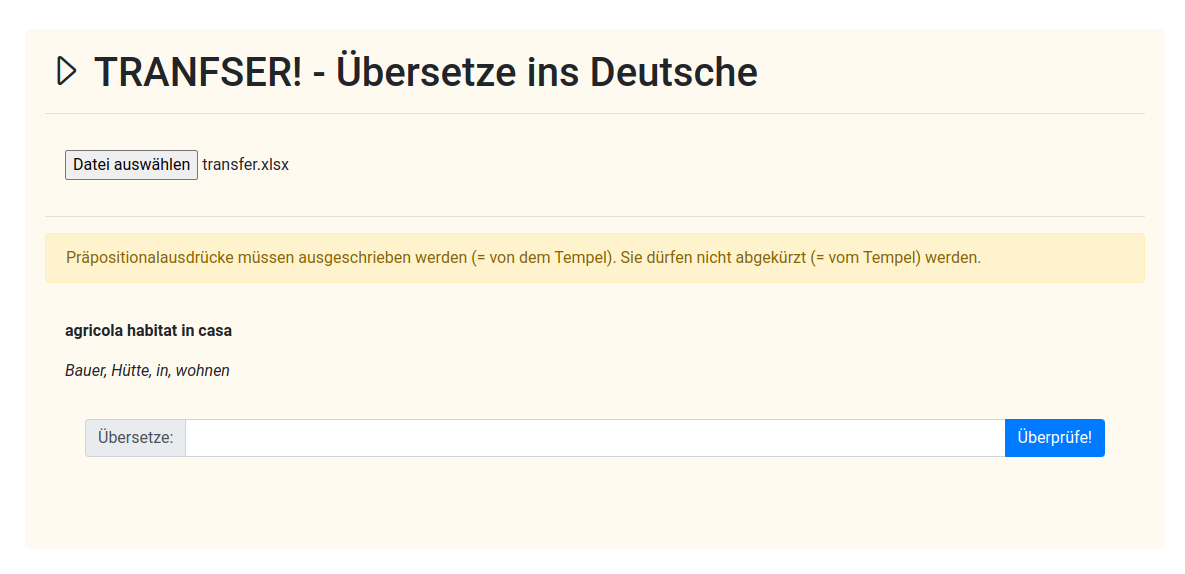
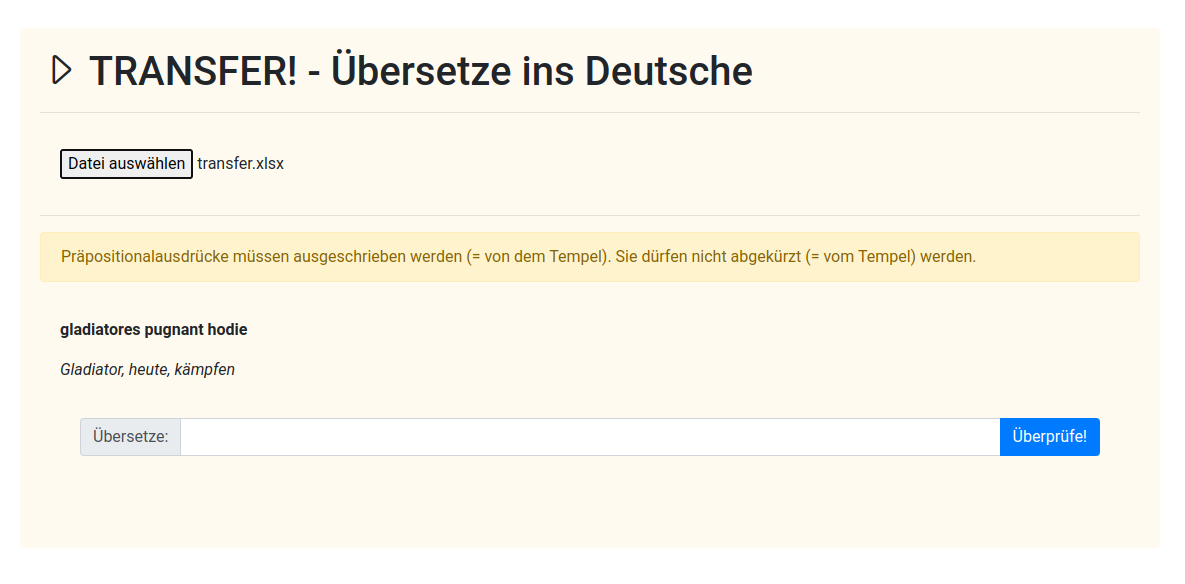
Add files via upload

diff --git a/transfer.html b/transfer.html
@@ -1,0 +1,148 @@
+<!DOCTYPE html>
+<html lang="de">
+    <head>
+	<meta charset="UTF-8">
+	<meta name="viewport" content="width=device-width, initial-scale=1.0">
+	<title>TRANSFER!</title>
+	<link rel="icon" type="image/x-icon" href="favicon_T.ico">
+	<!-- Bootstrap CSS -->
+	<link href="https://maxcdn.bootstrapcdn.com/bootstrap/4.5.2/css/bootstrap.min.css" rel="stylesheet">
+	<!-- Bootstrap Font Icon CSS -->
+	<link rel="stylesheet" href="https://cdn.jsdelivr.net/npm/bootstrap-icons@1.5.0/font/bootstrap-icons.css">
+	<!-- xlsx Bibliothek -->
+	<script src="https://cdnjs.cloudflare.com/ajax/libs/xlsx/0.15.6/xlsx.full.min.js"></script>
+	<style>
+         /* Styling für das div mit der Klassen mb-3 und mt-5 */
+         .mb-3, .mt-5 {
+             background-color: #FFFAF0; /* hellgrau */
+             padding: 20px; /* Etwas Abstand hinzufügen, um den Inhalt vom Rand des Hintergrunds zu trennen */
+             border-radius: 5px; /* Etwas abgerundete Ecken für ein besseres Aussehen */
+         }
+         .modal-lg {
+             max-width: 90%;
+         }
+	</style>
+    </head>
+    <body>
+
+	<div class="container mt-5">
+	    <!-- Überschrift -->
+	    <h1><i class="bi-caret-right"></i> TRANSFER! - Übersetze ins Deutsche</h1>
+	    <hr>
+	    <!-- 1. Upload einer Excel-Datei -->
+	    <div class="mb-3">
+		<input type="file" id="upload" accept=".xlsx" class="form-control-file">
+	    </div>
+	    <hr>
+	    <div class="alert alert-warning" role="alert">Präpositionalausdrücke müssen ausgeschrieben werden (= von dem Tempel). Sie dürfen nicht abgekürzt (= vom Tempel) werden.</div>
+	    <!-- 2. Anzeige von Satz und Vokabular -->
+	    <div id="content" class="mb-3">
+		<p id="sentence" class="font-weight-bold"></p>
+		<p id="vocabulary" class="font-italic"></p>
+		<!-- 3. Eingabeaufforderung für den Benutzer -->
+		<div class="input-group mb-3">
+		    <div class="input-group-prepend">
+			<span class="input-group-text">Übersetze:</span>
+		    </div>
+		    <input type="text" id="user_translation" class="form-control">
+		    <div class="input-group-append">
+			<button onclick="checkTranslation()" class="btn btn-primary">Überprüfe!</button>
+		    </div>
+		</div>
+		
+		<!-- Anzeige von Feedback -->
+		<p id="feedback" class="text-danger"></p>
+	    </div>
+	</div>
+
+
+	<!-- Optional: Bootstrap JavaScript and jQuery -->
+	<script src="https://ajax.googleapis.com/ajax/libs/jquery/3.5.1/jquery.min.js"></script>
+	<script src="https://cdnjs.cloudflare.com/ajax/libs/popper.js/1.16.0/umd/popper.min.js"></script>
+	<script src="https://maxcdn.bootstrapcdn.com/bootstrap/4.5.2/js/bootstrap.min.js"></script>
+	<!-- JavaScript-Teil -->
+	<script>
+	 // Benötigte Variablen
+	 let data;
+	 let currentId;
+	 let usedIds = [];
+
+	 const stoplist_vok = new Set(["am", "beim", "im", "vom", "zum", "der", "die", "das", "des", "dem", "den", "ein", "einer", "eine", "eines", "einem", "einen"]);
+
+	// 1. Upload einer Excel-Datei und Parsen mit xlsx
+        document.getElementById('upload').addEventListener('change', function(event){
+            const reader = new FileReader();
+            reader.onload = function(e) {
+                const data = e.target.result;
+                const workbook = XLSX.read(data, {type: 'binary'});
+                const firstSheetName = workbook.SheetNames[0];
+                const worksheet = workbook.Sheets[firstSheetName];
+                const jsonData = XLSX.utils.sheet_to_json(worksheet);
+                handleData(jsonData);
+            };
+            reader.readAsBinaryString(event.target.files[0]);
+        });
+
+	 function handleData(jsonData) {
+             data = jsonData;
+
+        // Sortiere die Vokabeln alphabetisch
+             data.forEach(item => {
+		 item.vocabulary = item.vocabulary.split(', ').sort((a, b) => a.localeCompare(b, 'de', { sensitivity: 'base' })).join(', ');
+             });
+
+             selectRandomId();
+	 }
+        // 2. Wähle zufällig eine ID
+        function selectRandomId() {
+            if (data.length === usedIds.length) {
+                // Wenn alle "id" korrekt beantwortet wurden
+                document.getElementById('feedback').textContent = "FERTIG!";
+                return;
+            }
+
+            do {
+                currentId = data[Math.floor(Math.random() * data.length)];
+            } while (usedIds.includes(currentId.id));
+
+            usedIds.push(currentId.id);
+            document.getElementById('sentence').textContent = currentId.sentence;
+            document.getElementById('vocabulary').textContent = currentId.vocabulary;
+        }
+
+        // Event Listener für das Drücken der Enter-Taste in der Input Box
+        document.getElementById('user_translation').addEventListener('keypress', function(event) {
+            if (event.key === 'Enter') {
+                event.preventDefault(); // Verhindert das Absenden des Formulars (Standardverhalten)
+                checkTranslation(); // Überprüft die Übersetzung
+            }
+         });
+	 
+
+		 // 4. Vergleiche user_translation mit translation
+	 function checkTranslation() {
+             const userTranslation = document.getElementById('user_translation').value;
+             const correctTranslation = currentId.translation;
+
+             // Entferne die Wörter aus stoplist_vok
+             const userWords = new Set(userTranslation.toLowerCase().replace(/[^a-z\s]/gi, '').split(' ').filter(word => !stoplist_vok.has(word)));
+             const correctWords = new Set(correctTranslation.toLowerCase().replace(/[^a-z\s]/gi, '').split(' ').filter(word => !stoplist_vok.has(word)));
+
+             const incorrectWords = [...userWords].filter(word => !correctWords.has(word));
+
+             if (incorrectWords.length === 0) {
+		 // Zeige die Meldung "Richtig!" an
+		 document.getElementById('feedback').textContent = "Richtig!";
+		 
+		 // Leere das Eingabefeld und zeige einen neuen Satz an
+		 document.getElementById('user_translation').value = '';
+		 selectRandomId();
+             } else {
+		 // 6. Wenn sie nicht übereinstimmen
+		 document.getElementById('feedback').textContent = `Fehler: ${incorrectWords.join(', ')}`;
+             }
+	 }
+</script>
+    </body>
+</html>
+
